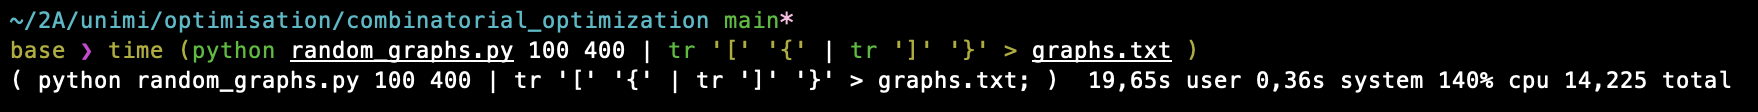
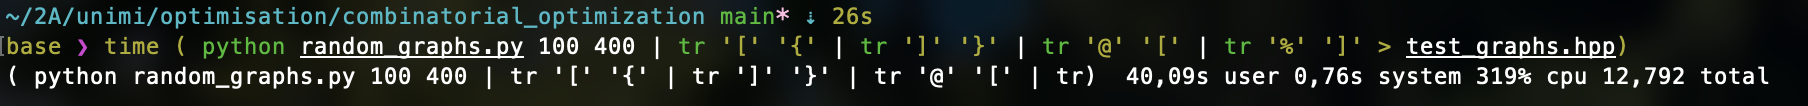
enough for today

diff --git a/random_graphs.py b/random_graphs.py
@@ -14,31 +14,28 @@ def random_graph(number_of_graphs, size_nodes, density=.3, max_weight=500):
         res.append(arcs)
     return [res, weights]
 
-def decode_graph(Arcs, Weights, size_nodes):
+def decode_graph(Arcs, Weights, size_nodes, number_of_graphs):
     '''
     put graph in proper arcs form
     '''
-    print('#include <vector>\nclass test_graphs {\npublic:')
+    print('#include <vector>\n\nclass test_graphs {\npublic:')
+    print(f"std::vector< std::vector<int> >* arcs@{number_of_graphs}%;")
+    print(f"std::vector< std::vector<int> >* weights@{number_of_graphs}%;\n")
     for j in range(len(Arcs)):
         start = Arcs[j]//size_nodes
         end = Arcs[j]%size_nodes
-        print(f"std::vector< std::vector<int> > arcs{j}=",end='{')
-        print()
+        print(f"std::vector< std::vector<int> > arcs{j}=",end='{\n')
         for i in range(size_nodes):
-            print(list(start[(end == i) & (start != end)]), end=',')
-            print()
+            print(list(start[(end == i) & (start != end)]), end=',\n')
         print('};')
-        print()
-        print(f"std::vector< std::vector<int> > weights{j}=",end='{')
-        print()
+        print(f"arcs@{j}% = &arcs{j};\n")
+        print(f"std::vector< std::vector<int> > weights{j}=",end='{\n')
         for i in range(size_nodes):
-            print(list(Weights[j][(end == i) & (start != end)]), end=',')
-            print()
+            print(list(Weights[j][(end == i) & (start != end)]), end=',\n')
         print('};')
-        print()
-        print()
+        print(f"weights@{j}% = &weights{j};\n")
     print("};")
 
 if  len(argv) > 2:
     Arcs, Weights = random_graph(int(argv[1]), int(argv[2]))
-    decode_graph(Arcs, Weights, int(argv[2]))
+    decode_graph(Arcs, Weights, int(argv[2]), int(argv[1]))

diff --git a/main.cpp b/main.cpp
@@ -1,9 +1,7 @@
 #include <iostream>
 #include <vector>
-#include <fstream>
 
 #include "Graph.h"
-#include "Random_graph.h"
 #include "test_graphs.hpp"
 
 template <typename T>
@@ -24,9 +22,13 @@ void vector_printer(std::vector<int> vec) {
 }
 
 int main(int argc, char const *argv[]) { 
-	test_graphs teste;
-	Graph instance(teste.arcs0, teste.weights0);
-	instance.Dijkstra(1);
-	vector_printer(instance.predecessors);
+	if (argc > 2) {
+		test_graphs teste;
+		Graph test_graph(teste.arcs1, teste.weights1);
+		test_graph.Dijkstra(2);
+			//std::cerr << "Please indicate a number smaller than the amount of graphs.\n Same for the starting vertex.\n";
+	} else {
+		std::cerr << "Please which graph you want to run Dijkstra on, and the starting vertex.\n";
+	};
 	return 0;
 }

diff --git a/README.md b/README.md
@@ -12,7 +12,7 @@ To best test the algorithm's implementation, it will run on lots of graphs, rand
 
 To compute `n` graphs of `m` nodes, type:
 
-	python random_graphs.py n m | tr '[' '{' | tr ']' '}' > graphs.txt
+	python random_graphs.py n m | tr '[' '{' | tr ']' '}' | tr '@' '[' | tr '%' ']' > test_graphs.hpp
 
 The graphs will be stored in the file `graphs.txt` in such a form that is easily readable by `C++` code.
 
@@ -22,4 +22,4 @@ Here is an example of graph generator use:
 
 ![timing python](ressources/capture.png)
 
-So generating 100 graphs of 400 nodes (and 96K edges) took me 20s. Since Dijkstra will be longer to run, it's no big deal to use `Python` here.
+So generating 100 graphs of 400 nodes (and 48K edges) took me 20s. Since Dijkstra will be longer to run (on all 100 graphs), it's no big deal to use `Python` here.
